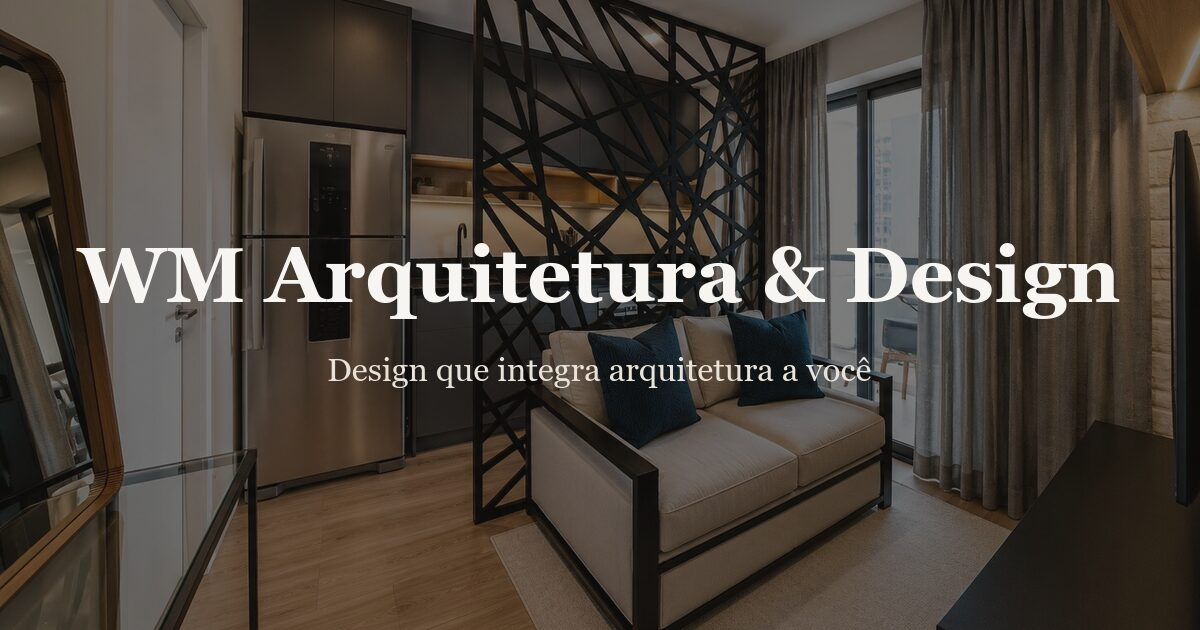
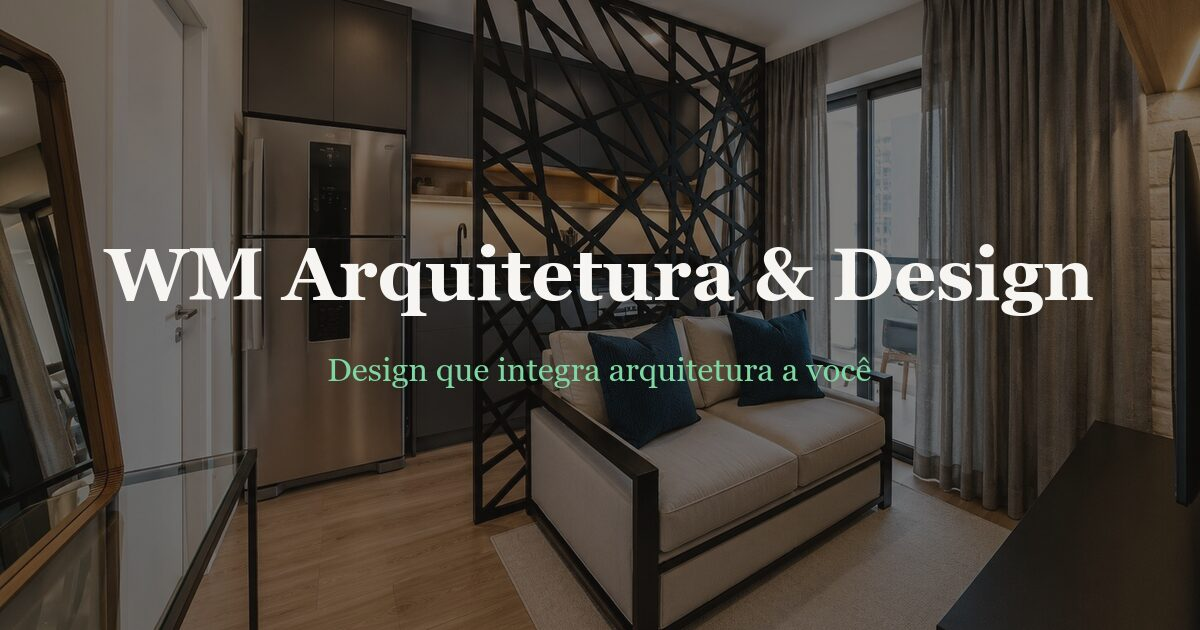
fix: corrige bugs visuais e aplica identidade visual real da marca
- Espaço cinza sob imagens no mobile (picture sem altura definida
  ao usar eleventy-img) corrigido em hero, cards e galeria.
- Imagem duplicada entre "Trabalhos em destaque" e "Conheça a
  abordagem" na home.
- Logo/ícone reais da marca (extraídos do cartão de visita),
  cor de acento trocada de bronze para o verde oficial, fonte do
  logo ajustada para Yu Gothic (system font stack, sem custo de
  licenciamento) com fallback.
- Favicon, ícones PWA e imagem Open Graph regenerados com a marca real.

Changed region(s): [[0.0617, 0.3921, 0.9558, 0.5127], [0.2775, 0.573, 0.74, 0.6333]]

diff --git a/src/assets/css/styles.css b/src/assets/css/styles.css
@@ -49,13 +49,15 @@
   --ink-soft: #4a4741;
   --muted: #8a857c;
   --line: #e2ddd4;
-  --accent: #9a7b53; /* bronze discreto */
-  --accent-deep: #7d6340;
+  --accent: #229b50; /* verde da marca WM ArqDesign */
+  --accent-deep: #16793e; /* variante escura, contraste AA em texto */
   --dark: #1c1b19;
   --dark-soft: #2a2824;
 
   --font-display: "Cormorant Garamond", Georgia, "Times New Roman", serif;
   --font-body: "Inter", system-ui, -apple-system, "Segoe UI", Roboto, sans-serif;
+  --font-logo: "Yu Gothic", "Yu Gothic UI", "YuGothic", "Hiragino Kaku Gothic ProN",
+    "Noto Sans JP", var(--font-body);
 
   --container: 1280px;
   --gutter: clamp(1.25rem, 4vw, 3rem);
@@ -273,28 +275,42 @@ p {
 }
 .brand {
   display: flex;
-  align-items: baseline;
-  gap: 0.55rem;
-  font-family: var(--font-display);
-  font-size: 1.5rem;
-  font-weight: 600;
-  letter-spacing: 0.04em;
+  align-items: center;
+  gap: 0.65rem;
   color: var(--ink);
 }
-.brand__mark {
-  font-weight: 600;
-  letter-spacing: 0.08em;
+.brand__icon {
+  width: 34px;
+  height: auto;
+  flex: none;
+  color: var(--ink); /* traço preto acompanha via currentColor */
+  transition: color 0.4s var(--ease);
+}
+.brand__text {
+  display: flex;
+  flex-direction: column;
+  gap: 0.1rem;
+  line-height: 1.1;
+}
+.brand__word {
+  font-family: var(--font-logo);
+  font-size: 1.2rem;
+  letter-spacing: 0.01em;
+}
+.brand__word strong {
+  font-weight: 700;
 }
 .brand__sub {
   font-family: var(--font-body);
-  font-size: 0.62rem;
+  font-size: 0.6rem;
   font-weight: 600;
-  letter-spacing: 0.28em;
+  letter-spacing: 0.24em;
   text-transform: uppercase;
   color: var(--muted);
 }
 /* header claro sobre hero escuro */
 .site-header:not(.is-solid):not(.is-open).over-hero .brand,
+.site-header:not(.is-solid):not(.is-open).over-hero .brand__icon,
 .site-header:not(.is-solid):not(.is-open).over-hero .nav__link,
 .site-header:not(.is-solid):not(.is-open).over-hero .nav-toggle {
   color: #fff;
@@ -406,6 +422,11 @@ p {
   position: absolute;
   inset: 0;
   z-index: -2;
+}
+.hero__media picture {
+  display: block;
+  width: 100%;
+  height: 100%;
 }
 .hero__media img {
   width: 100%;
@@ -520,6 +541,11 @@ p {
   border-radius: var(--radius);
   background: var(--bg-alt);
   aspect-ratio: 4 / 5;
+}
+.project-card__media picture {
+  display: block;
+  width: 100%;
+  height: 100%;
 }
 .project-card__media img {
   width: 100%;
@@ -740,6 +766,11 @@ p {
   cursor: zoom-in;
   aspect-ratio: 3 / 2;
 }
+.gallery__item picture {
+  display: block;
+  width: 100%;
+  height: 100%;
+}
 .gallery__item img {
   width: 100%;
   height: 100%;
@@ -880,7 +911,7 @@ p {
 .form-field select:focus {
   outline: none;
   border-color: var(--accent);
-  box-shadow: 0 0 0 3px rgba(154, 123, 83, 0.16);
+  box-shadow: 0 0 0 3px rgba(34, 155, 80, 0.16);
 }
 .form-field textarea {
   min-height: 140px;
